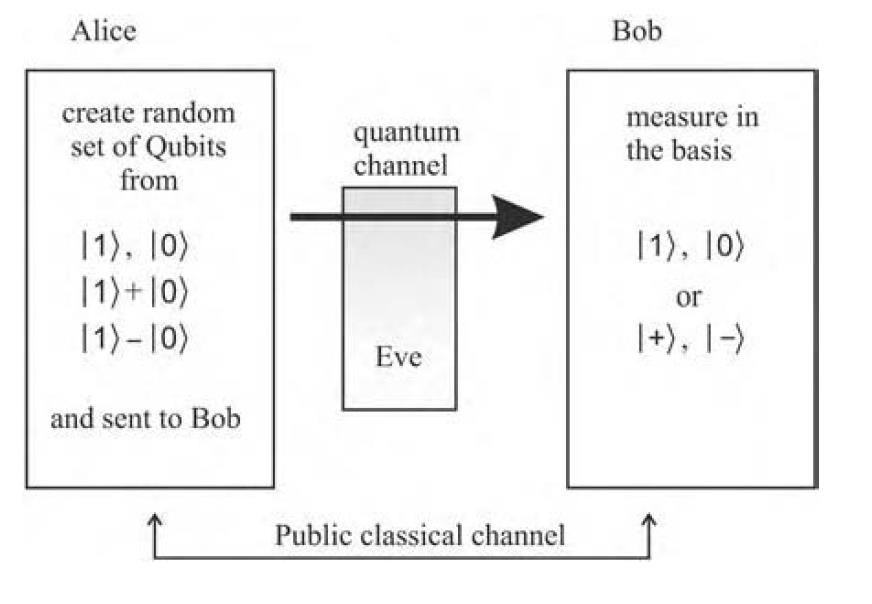
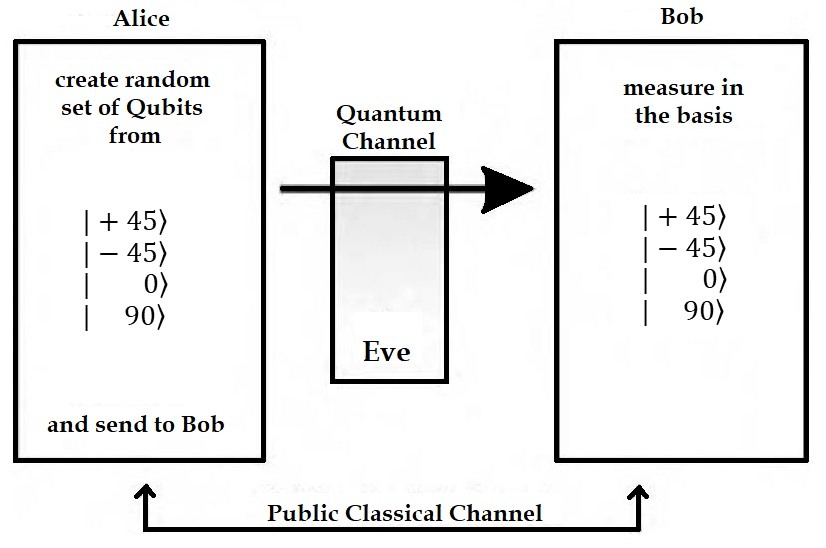
half way there, QBER missing

Changed region(s): [[0.0, 0.0, 0.9988, 0.9927], [0.7264, 0.3723, 0.8777, 0.5894], [0.0908, 0.3723, 0.2119, 0.5894]]

diff --git a/doc/tex/sdf/bb84_with_discrete_variables/bb84_with_discrete_variables.tex b/doc/tex/sdf/bb84_with_discrete_variables/bb84_with_discrete_variables.tex
@@ -12,14 +12,21 @@
 BB84 is a key distribution protocol which involves three parties, Alice, Bob and Eve. Alice and Bob exchange information between each other by using a quantum channel and a classical channel. The main goal is continuously build keys only known by Alice and Bob, and guarantee that eavesdropper, Eve, does not gain any information about the keys.
 
 
-\subsection{Theoretical Description}
+\subsection{Protocol Analysis}
+\begin{tcolorbox}	
+	\begin{tabular}{p{2.75cm} p{0.2cm} p{10.5cm}} 	
+		\textbf{Studens Name}  &:& Kevin Filipe\\
+		\textbf{Starting Date} &:& December 10, 2017\\
+		\textbf{Goal}          &:& BB84 Theoretical Analysis - Quantum Communication
+	\end{tabular}
+\end{tcolorbox}
 
-BB84 protocol was created by Charles Bennett and Gilles Brassard in 1984 \cite{BB84}. This was the first created Quantum Key Distribution (QKD) protocol. A basic model is depicted in figure \ref{fig:qkd model}. It involves two parties sharing keys through a quantum channel to decipher the classical channel data. It is assumed that there is a eavesdropper, Eve to intercept the data.
+BB84 protocol was created by Charles Bennett and Gilles Brassard in 1984 \cite{BB84}. A basic model is depicted in figure \ref{fig:qkd model}. It involves two parties, Alice and Bob, sharing keys through a quantum channel in which could be compromised by a eavesdropper, Eve. The data transmission is done by encoding a random set of Qubits into a specific basis and measure it at Bob. 
 
 \begin{figure}[H]
 	\centering
-	\includegraphics[width=1.0\textwidth,height=7cm]{./sdf/bb84_with_discrete_variables/figures/QKD_Model.png}
-	\caption{Basic QKD Model. Alice and Bob are connected by 2 communication channels, quantum and classical, with an eavesdropper, Eve, in the quantum communication channel. \cite{iqo}}\label{fig:qkd model}
+	\includegraphics[width=0.8\textwidth,height=7cm]{./sdf/bb84_with_discrete_variables/figures/QKD_Model.png}
+	\caption{Basic QKD Model. Alice and Bob are connected by 2 communication channels, quantum and classical, with an eavesdropper, Eve, in the quantum communication channel. Adapted from \cite{iqo}.}\label{fig:qkd model}
 \end{figure}
 
 
@@ -36,21 +43,19 @@ BB84 protocol uses bit encoding into photon state polarization. Two non-orthogon
 
 \begin{figure}[H]
 	\centering
-	\includegraphics[width=0.4\textwidth,height=4cm]{./sdf/bb84_with_discrete_variables/figures/basis.png}
-	\caption{Simple representation of the bit encoding using the corresponding bases.\cite{SURV}}\label{fig:basis}
+	\includegraphics[width=0.4\textwidth,height=7cm]{./sdf/bb84_with_discrete_variables/figures/basis.png}
+	\caption{Simple representation of the bit encoding using the corresponding bases. Adapted from \cite{SURV}.}\label{fig:basis}
 \end{figure}
 
-
 The protocol is implemented with the following steps:
-
 \begin{enumerate}
-	\item Alice generates two random bit strings. The random string ,$R_{A1}$, is the data to be encoded while $R_{A2} $is a string which 0 and 1 corresponds to rectilinear and diagonal basis $B_{A}$, respectively.
+	\item Alice generates two random bit strings. The random string ,$R_{A1}$, corresponds to the data to be encoded into photon state polarization. $R_{A2}$ is a random string in which 0 and 1 corresponds to the rectilinear, +, and diagonal, $\times$, basis of $B_{A}$, respectively.
 	
 	$$ R_{A1} = \{0,1,1,0,1,0,0,1,1,0,1,1,1,0,0,1,0,0,0,1\}$$
 	$$ R_{A2} = \{0,0,1,0,1,1,1,0,1,1,1,0,1,0,0,0,1,0,1,0\}$$
 	$$ B_{A} = \{+,+,\times,+,\times, \times, \times, +,\times, \times, \times,+,\times,+,+,+,\times,+,\times,+\}$$
 	
-	\item Alice transmits a train of photons,$S_{AB}$, in which, each photon represents a bit of the random string, Ra1, with the correspondent polarization regarding to the bit value.
+	\item Alice transmits a train of photons,$S_{AB}$, obtained by encoding the bits, $R_{A1}$ with the respective photon polarization state $R_{A2}$.
 	
 	$$S_{AB} = \{\to, \uparrow, \searrow, \to, \searrow, \nearrow, \nearrow, \uparrow, \searrow, \nearrow, \searrow, \uparrow, \searrow, \to, \to, \uparrow, \nearrow, \to, \nearrow, \uparrow\}.$$
 	
@@ -59,39 +64,34 @@ The protocol is implemented with the following steps:
 	$$ R_{B} = \{0,1,1,1,0,1,0,0,1,1,0,0,1,1,0,0,1,1,0,0\}$$
 	$$B_{B} = \{ +,\times,\times,\times,+,\times,+,+,\times,\times,+,+,\times,\times,+,+,\times,\times,+,+\}.$$
 	
-	\item If Bob chooses a matched basis compared to the one encoded in the photon, then he can correctly deduce the right bit, otherwise deduced bit is randomly read. It is considered that the channel contains attenuation, this will not click the polarization detector 
+	\item Bob performs the incoming photon states measurement, $M_{B}$ with its generated random basis. It is considered the channel attenuation,-1, false positives,-2, rectilinear basis, 0, and diagonal basis,1.
 	
-	$$D_{B} = \{0,1,1,0,-,0,1,1,-,0,0,1,-,1,0,1,0,-,1,1\}$$
+	$$M_{B} = \{0,1,1,1,-1,1,0,0,-2,1,0,0,-2,1,0,0,1,-1,0,0\}$$	
 	
 \end{enumerate}
 
 Since less than half of the data is deduced, a second phase is needed so that Alice can announce to Bob which deduced bits are correct This second phase, uses the classical communication channel:
 \begin{enumerate}
 	
-	\item Bob sends Alice about the no clicks, in which 1 represents a no click.
-	
-	$$NC_{BA} = \{ 0,0,0,0,1,0,0,0,1,0,0,0,1,0,0,0,0,1,0,0\}.$$
-	
-	\item Bob notifies Alice about what random basis he used to deduce each bit, $R_{B}$, and Alice also sends to Bob the basis $R_{A1}$, she used.
-	
-	\item Both performs an XOR to deduce the correct sequence.
+	\item After the measurement, Bob sends to Alice the values of $M_{B}$ and Alice sends to Bob the random basis she used, Bob
+	\item Both removes the false positives and errors by attenuation and performs an XOR operation to deduce the correct sequence.
 	
 	\begin{table}[H]
 		\centering
-		\begin{tabular}{c|c c c c c c c c c c c c c c c c c c c c}
-			$R_{A2}$ & 0 & 0 & 1 & 0 & 1 & 1 & 1 & 0 & 1 & 1 & 1 & 0 & 1 & 0 & 0 & 0 & 1 & 0 & 1 & 0 \\
-			$R_{B}$  & 0 & 1 & 1 & 1 & 0 & 1 & 0 & 0 & 1 & 1 & 0 & 0 & 1 & 1 & 0 & 0 & 1 & 1 & 0 & 0 \\ \hline
-			$\oplus$ & 0 & 1 & 0 & 1 & 1 & 0 & 1 & 0 & 0 & 0 & 1 & 0 & 0 & 1 & 0 & 0 & 0 & 1 & 1 & 0 \\ 
+		\begin{tabular}{c|c c c c c c c c c c c c c c c c}
+			$R_{A2}$ & 0 & 0 & 1 & 0 & 1 & 1 & 0 & 1 & 1 & 0 & 0 & 0 & 0 & 1 & 1 & 0 \\
+			$R_{B}$  & 0 & 1 & 1 & 1 & 1 & 0 & 0 & 1 & 0 & 0 & 1 & 0 & 0 & 1 & 0 & 0 \\ \hline
+			$\oplus$ & 0 & 1 & 0 & 1 & 0 & 1 & 0 & 0 & 1 & 0 & 1 & 0 & 0 & 0 & 1 & 0 \\ 
 		\end{tabular}
 	\end{table}
 	
-	\item By using the deducid bits and removing the no clicks, the final obtained sequence is $K_{AB}$
+	\item Using the selected bits, the deduced key is, $K_{AB}$
 	
   	$$ K_{AB} = \{0,1,0,1,0,1,0,1,0,1\}.$$
 		
 \end{enumerate}
 
-	The Quantum Bit Error Rate (QBER) is calculated by knowing the amount of no clicks and correct deduced bits by Bob.
+	To determine the Quantum Bit Error Rate (QBER), 
 	
 	$$ QBER = no\_clicks\_qty / correct\_deduced\_bits $$
 	
